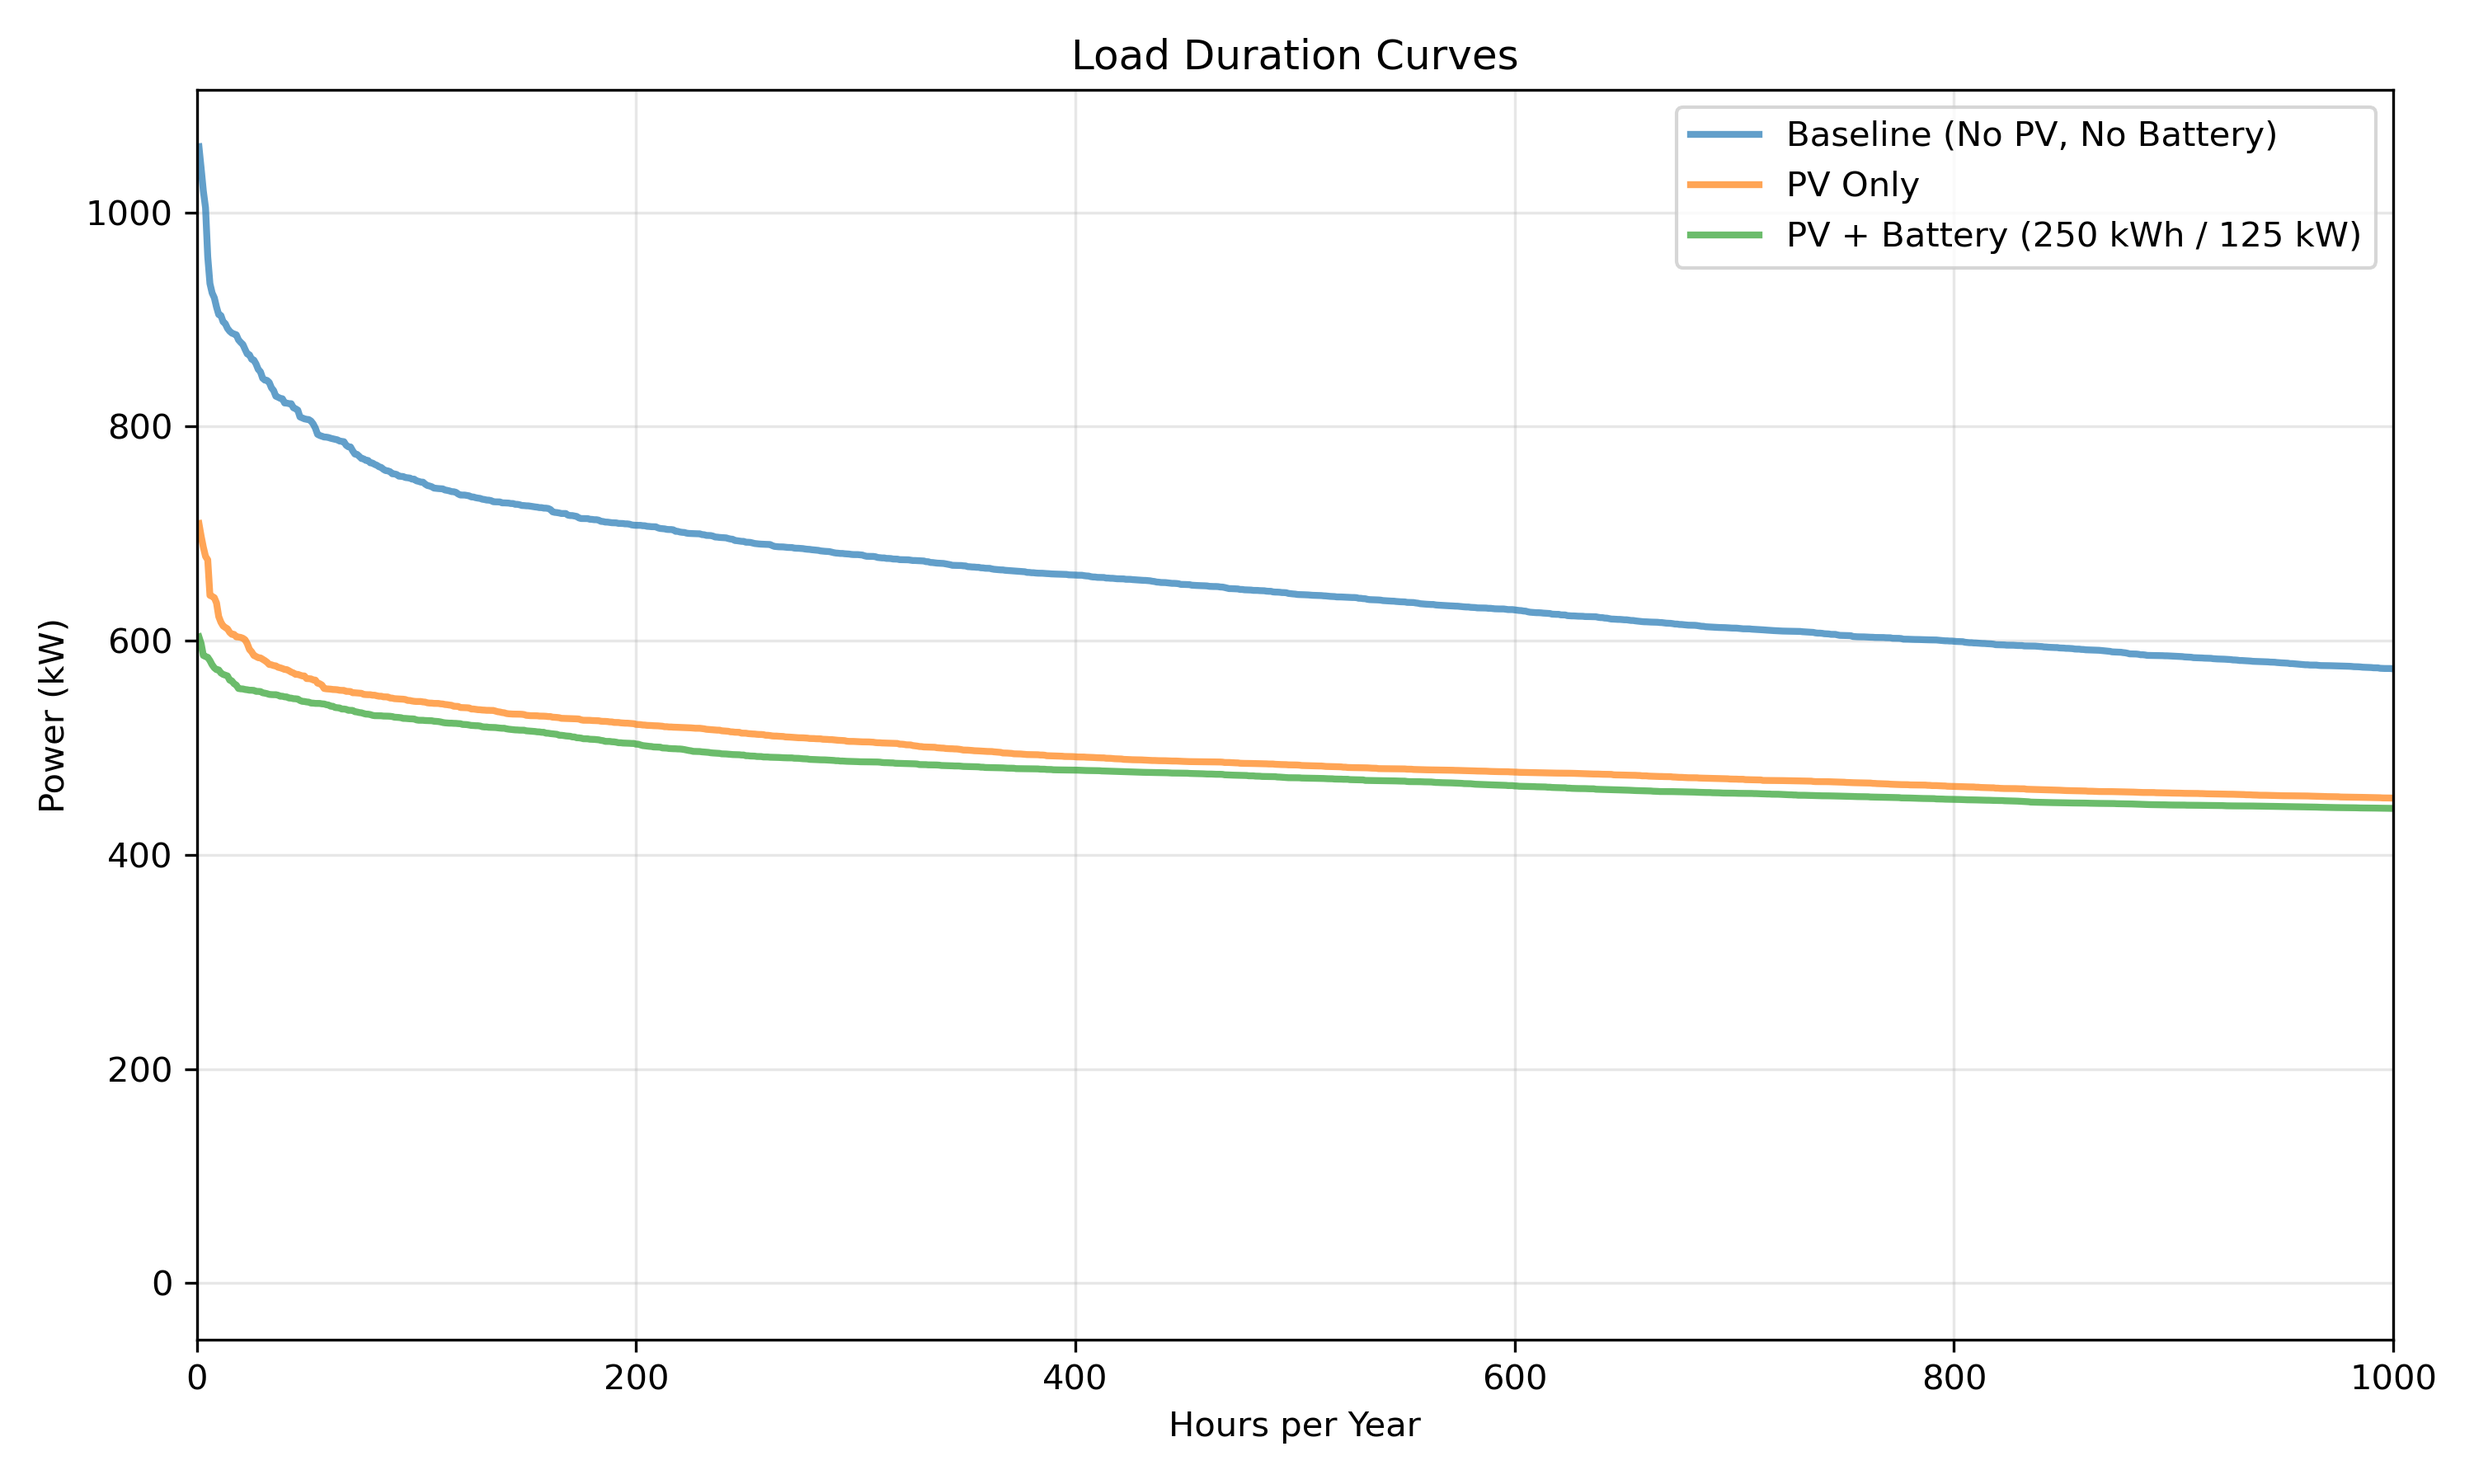
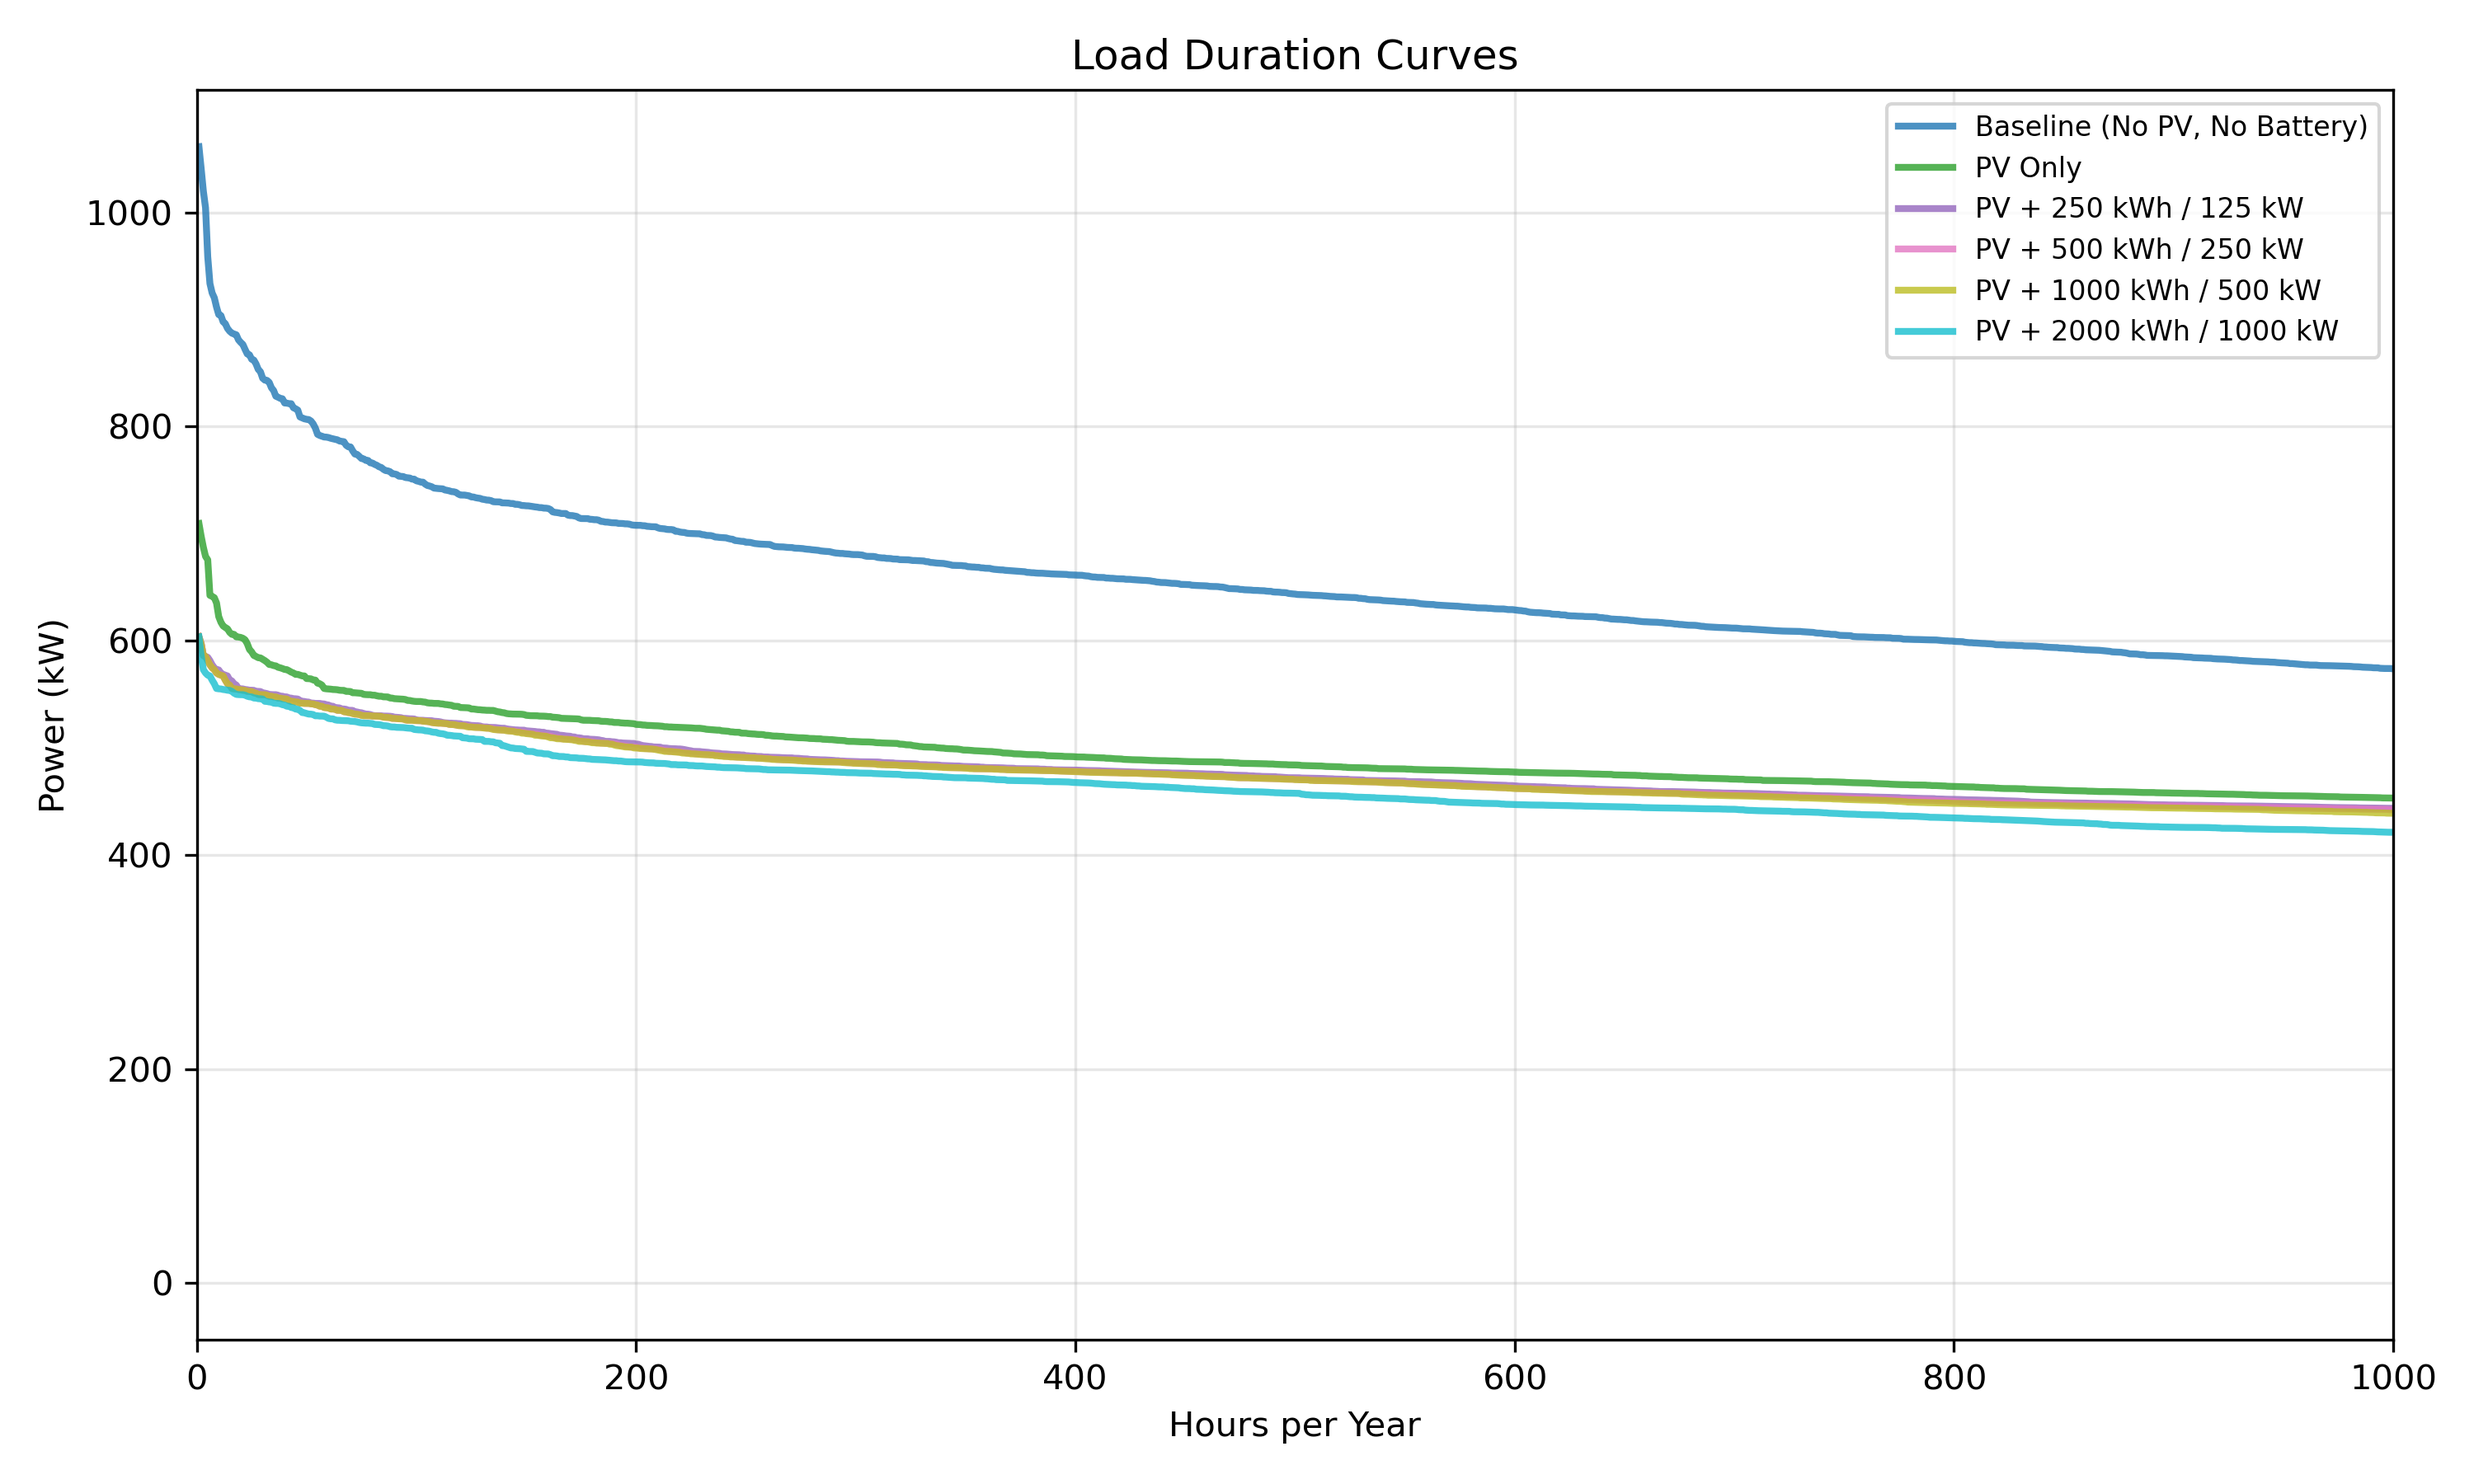
improved simulations

Changed region(s): [[0.062, 0.4356, 0.961, 0.56], [0.682, 0.0622, 0.961, 0.2489], [0.062, 0.3733, 0.093, 0.4044]]

diff --git a/battery_sizing_analysis.py b/battery_sizing_analysis.py
@@ -240,6 +240,16 @@ for config in battery_configs:
 results_df = pd.DataFrame(results)
 results_df = results_df.drop(columns=['df'])  # Remove dataframe column for display
 
+# Round numbers for cleaner output
+results_df["Peak_Grid_kW"] = results_df["Peak_Grid_kW"].round(1)
+results_df["Peak_Reduction_kW"] = results_df["Peak_Reduction_kW"].round(1)
+results_df["Peak_Reduction_%"] = results_df["Peak_Reduction_%"].round(2)
+results_df["Annual_Grid_kWh"] = results_df["Annual_Grid_kWh"].round(0).astype(int)
+results_df["Energy_Reduction_kWh"] = results_df["Energy_Reduction_kWh"].round(0).astype(int)
+results_df["Energy_Reduction_%"] = results_df["Energy_Reduction_%"].round(2)
+results_df["Battery_Throughput_kWh"] = results_df["Battery_Throughput_kWh"].round(0).astype(int)
+results_df["PV_Curtailed_kWh"] = results_df["PV_Curtailed_kWh"].round(0).astype(int)
+
 print("\n" + "="*60)
 print("BATTERY SIZING SUMMARY")
 print("="*60)
@@ -393,26 +403,34 @@ plt.savefig(os.path.join(BATTERY_PLOTS_DIR, "battery_operation_detail.png"), dpi
 print("Saved: battery_operation_detail.png")
 plt.close()
 
-# Plot 4: Load duration curves
+# Plot 4: Load duration curves (all configurations)
 fig, ax = plt.subplots(figsize=(10, 6))
 
-# Sort by descending order for load duration curve
+hours = np.arange(1, len(df) + 1)
+batt_results = [r for r in results if r["E_cap_kWh"] > 0]
+n_lines = 2 + len(batt_results)
+colors = plt.cm.tab10(np.linspace(0, 1, n_lines))
+
+# Baseline (No PV, No Battery)
 baseline_sorted = np.sort(df["Load (kW)"].values)[::-1]
+ax.plot(hours, baseline_sorted, label="Baseline (No PV, No Battery)",
+        linewidth=2, alpha=0.8, color=colors[0])
+
+# PV only (no battery)
 pv_only_sorted = np.sort(df["GridImport_no_batt_kW"].values)[::-1]
-batt_sorted = np.sort(best_df["GridImport_with_batt_kW"].values)[::-1]
+ax.plot(hours, pv_only_sorted, label="PV Only",
+        linewidth=2, alpha=0.8, color=colors[1])
 
-hours = np.arange(1, len(baseline_sorted) + 1)
-
-ax.plot(hours, baseline_sorted, label="Baseline (No PV, No Battery)", 
-        linewidth=2, alpha=0.7)
-ax.plot(hours, pv_only_sorted, label="PV Only", linewidth=2, alpha=0.7)
-ax.plot(hours, batt_sorted, label=f"PV + Battery ({best_config['Config']})", 
-        linewidth=2, alpha=0.7)
+# Each battery configuration
+for i, r in enumerate(batt_results):
+    r_sorted = np.sort(r["df"]["GridImport_with_batt_kW"].values)[::-1]
+    ax.plot(hours, r_sorted, label=f"PV + {r['Config']}",
+            linewidth=2, alpha=0.8, color=colors[2 + i])
 
 ax.set_xlabel("Hours per Year")
 ax.set_ylabel("Power (kW)")
 ax.set_title("Load Duration Curves")
-ax.legend()
+ax.legend(loc="upper right", fontsize=8)
 ax.grid(True, alpha=0.3)
 ax.set_xlim(0, 1000)  # Focus on top 1000 hours
 
